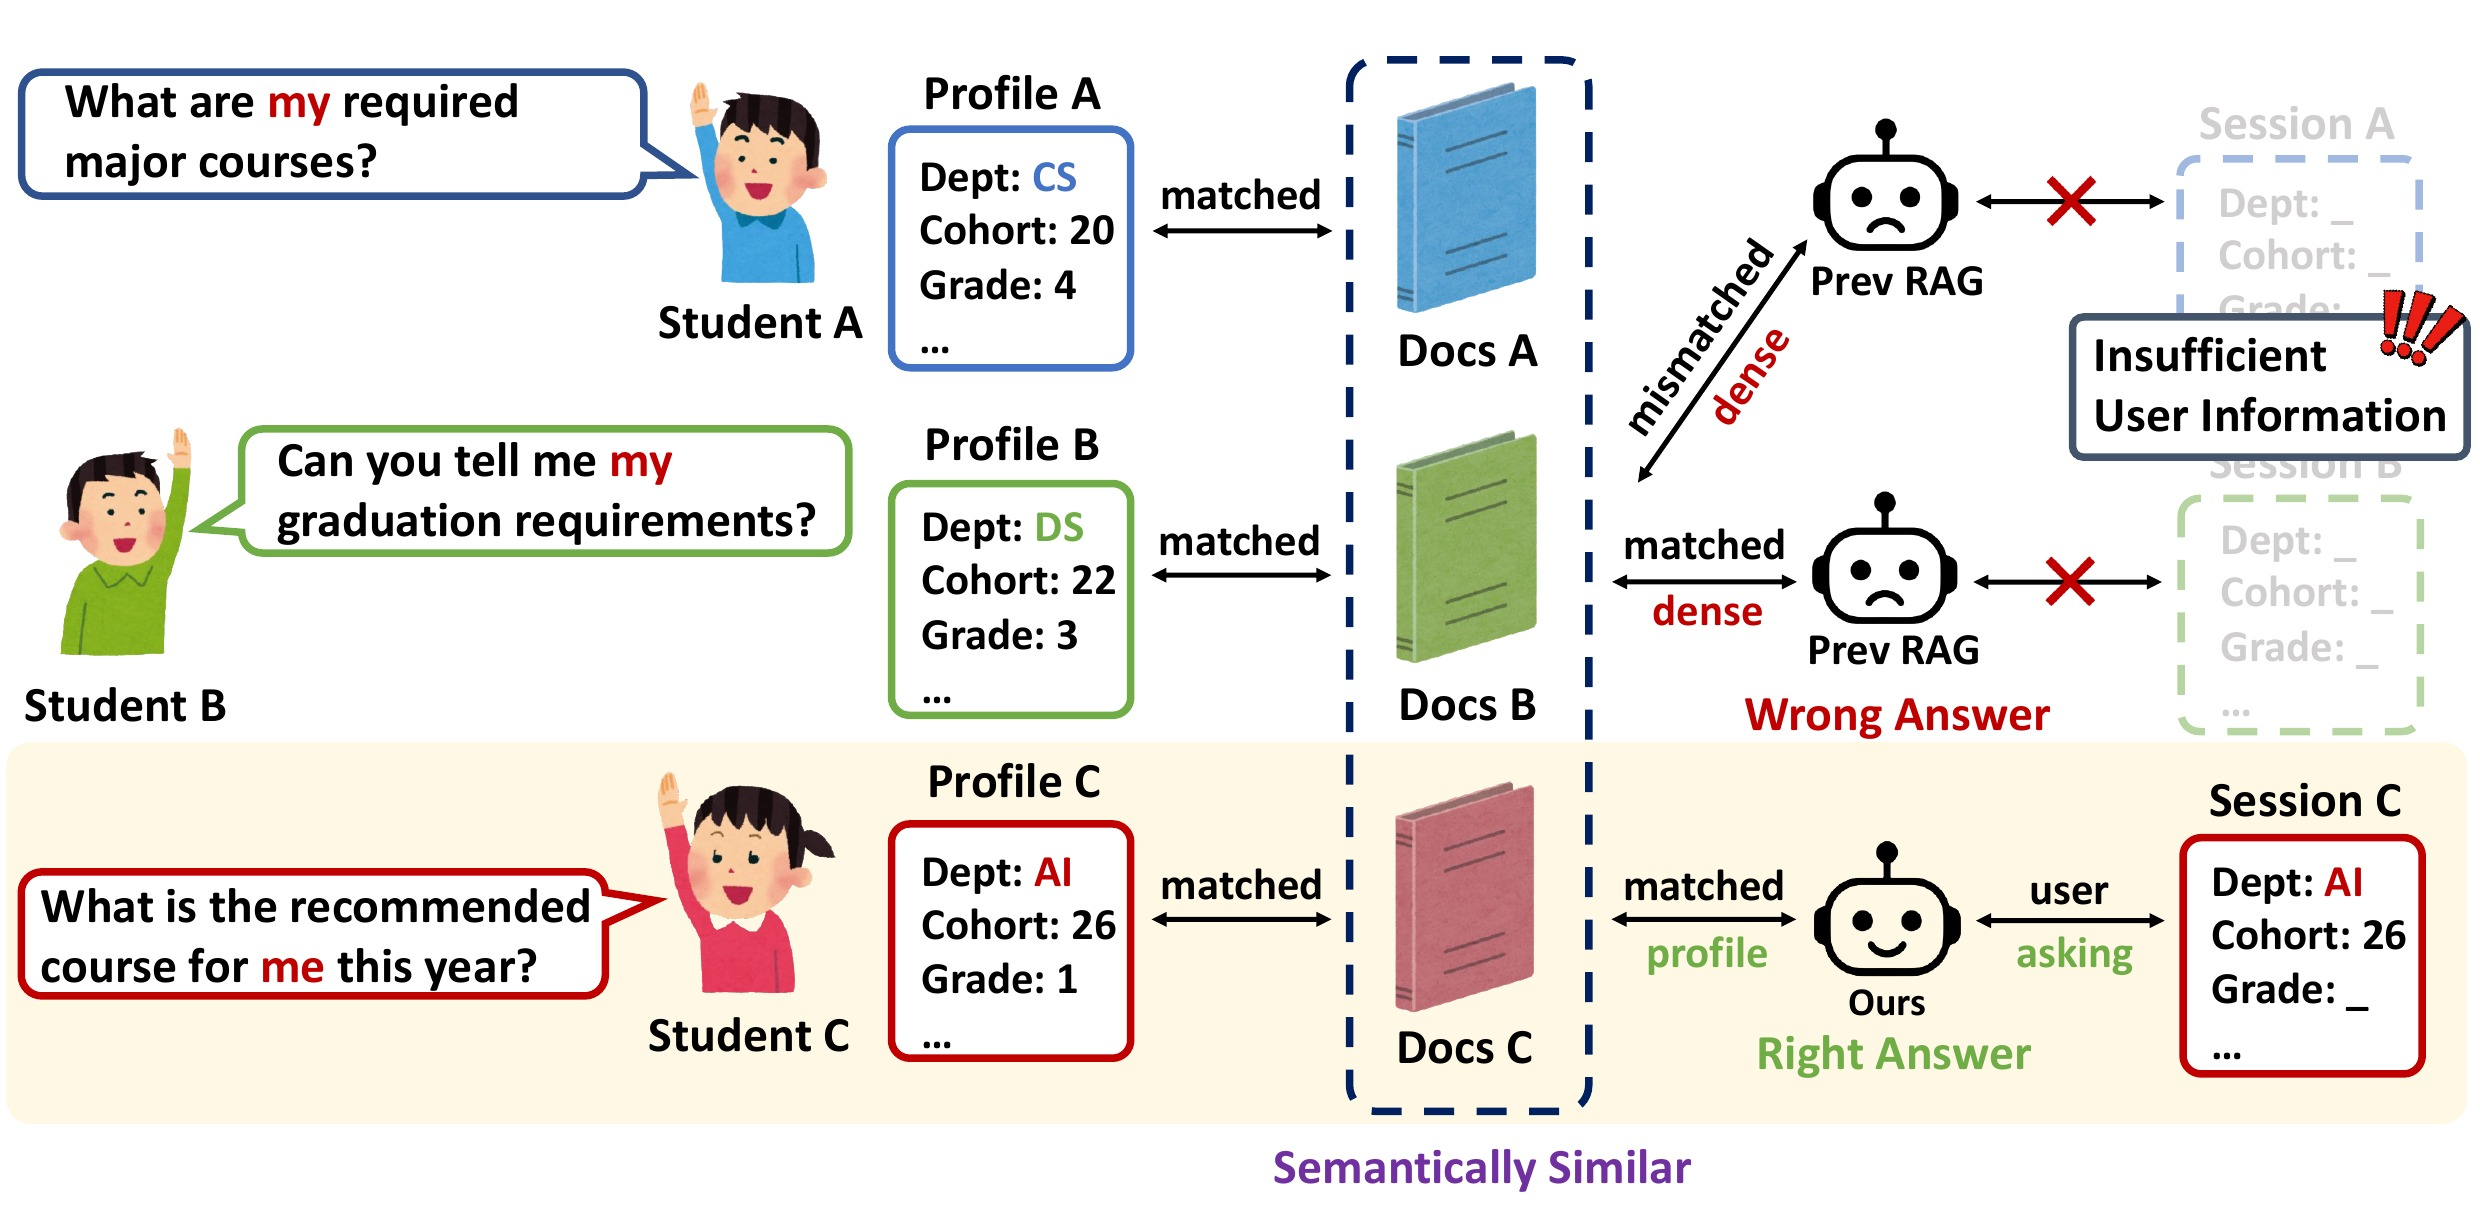
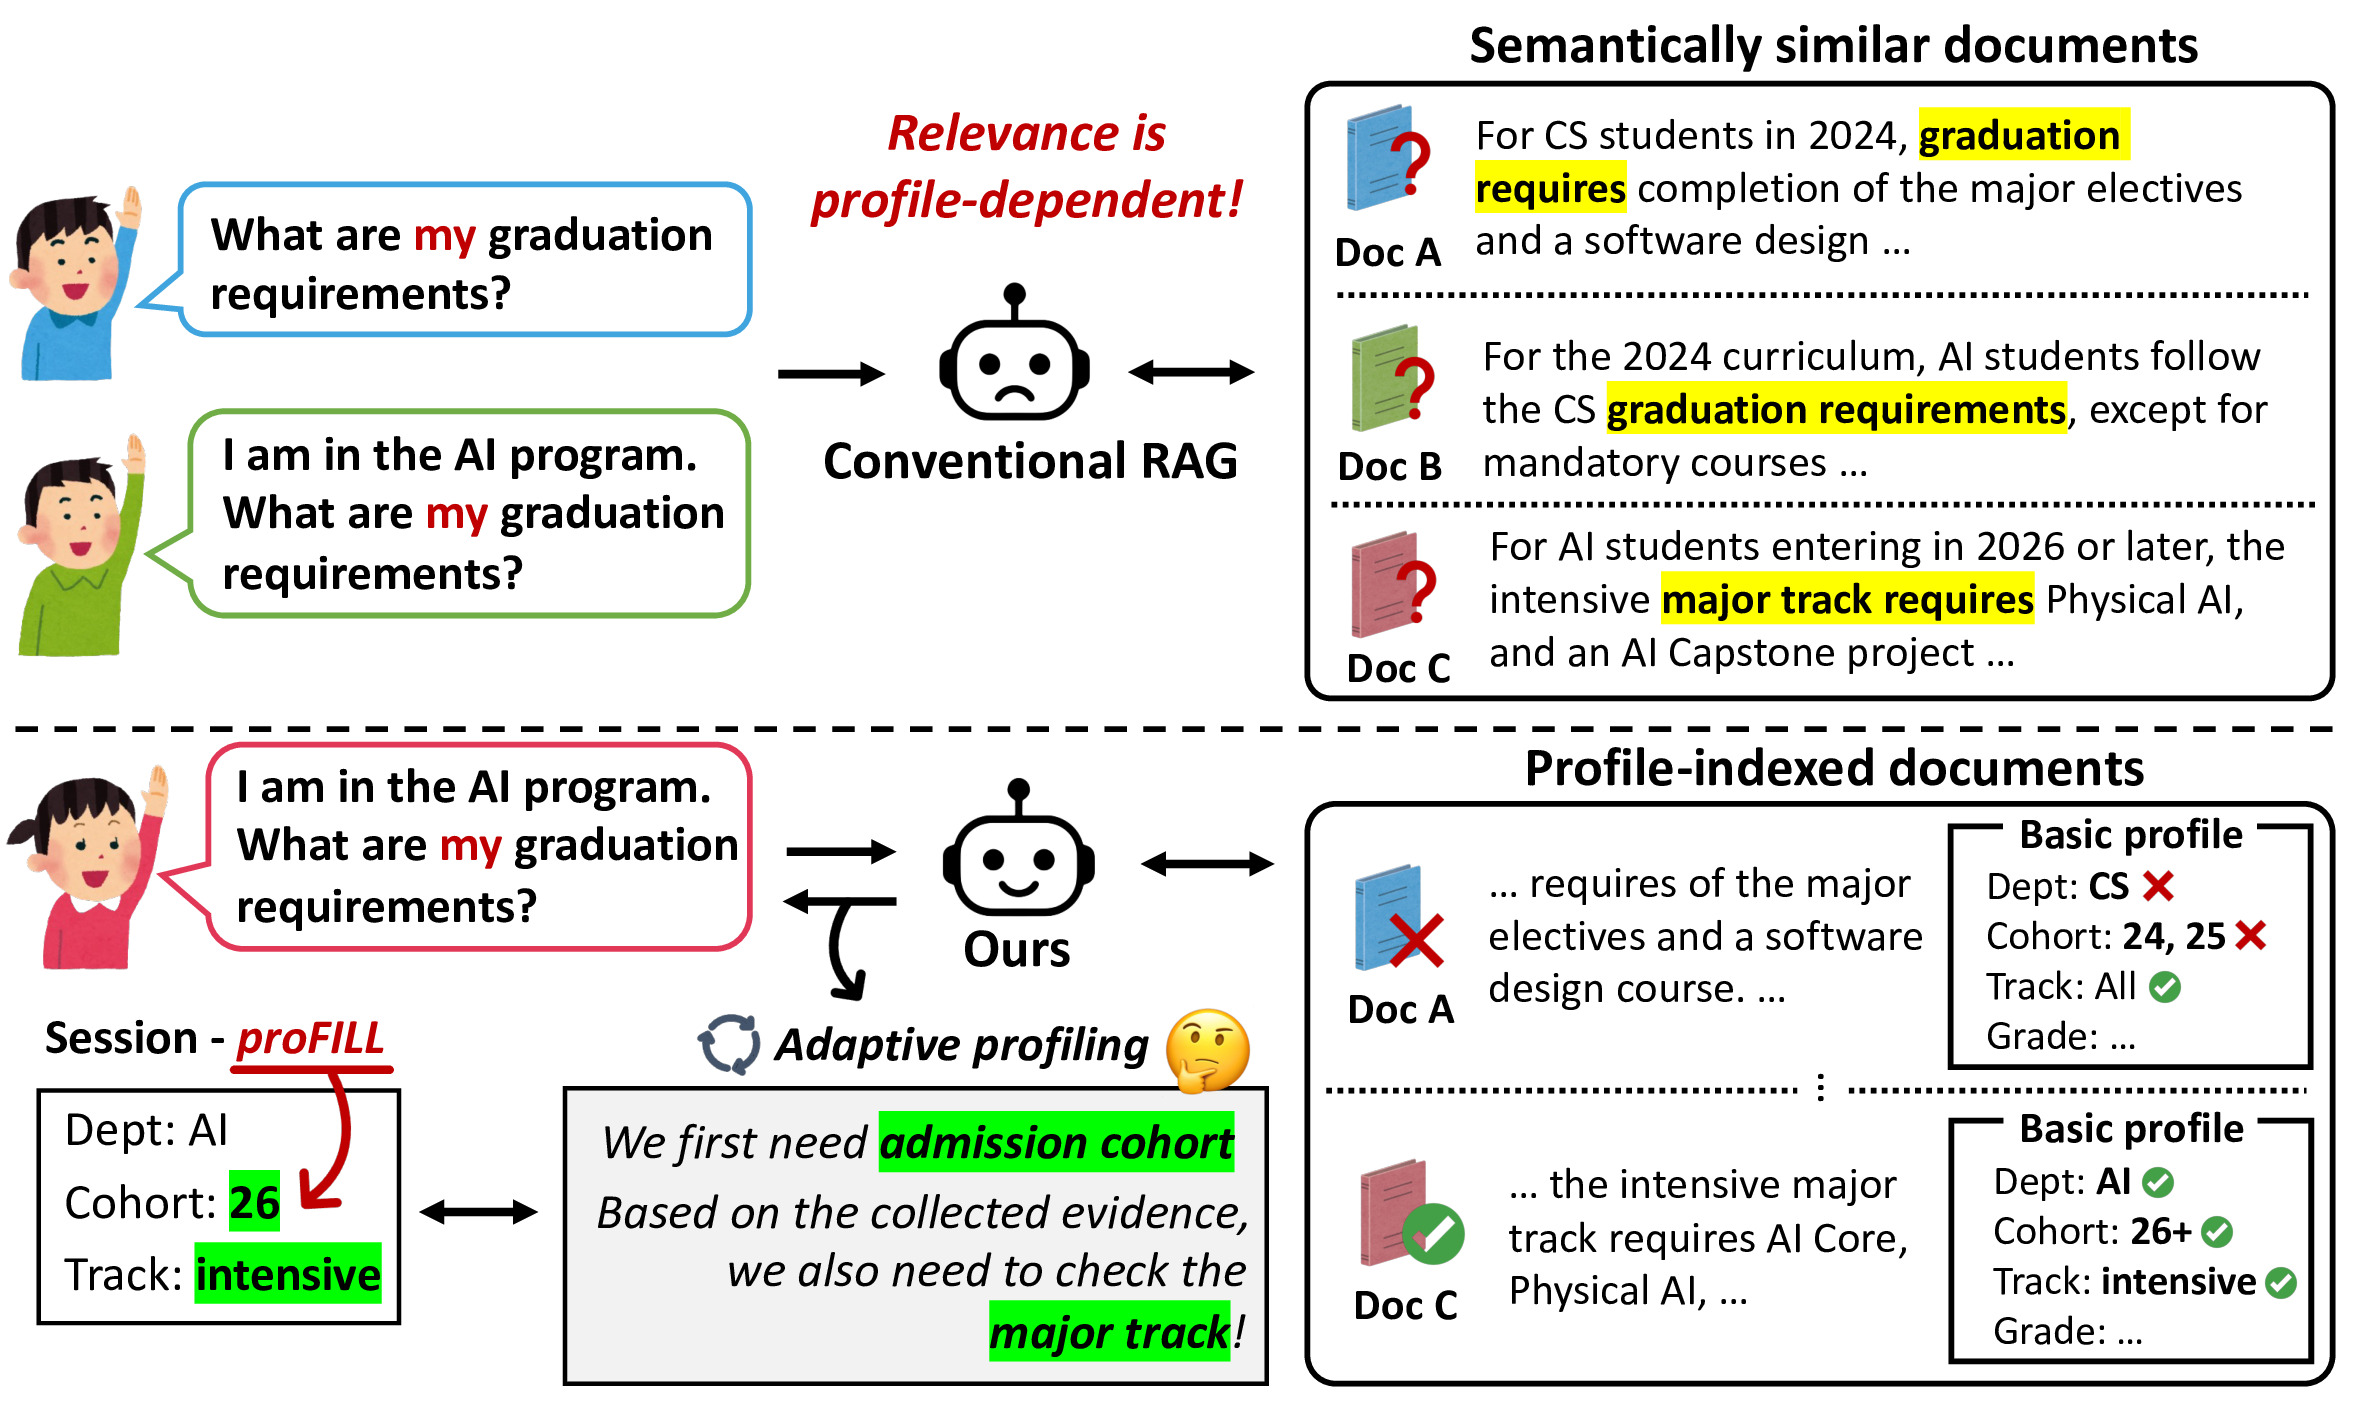
Update intro figure to v4

diff --git a/index.html b/index.html
@@ -94,7 +94,7 @@
       <div class="hero-figure-wrap">
         <img class="floating-icon icon-student-a" src="./static/images/icons/student_1.png" alt="">
         <img class="floating-icon icon-doc" src="./static/images/icons/docs_1.png" alt="">
-        <img class="teaser-image" src="./static/images/figures/hobit_intro.png" alt="Profile-dependent advising questions require different evidence for different students.">
+        <img class="teaser-image" src="./static/images/figures/hobit_intro.png?v=20260711-intro-v4" alt="Profile-dependent advising questions require different evidence for different students.">
         <img class="floating-icon icon-bot" src="./static/images/icons/chatbot.png" alt="">
       </div>
       <h2 class="subtitle has-text-centered">